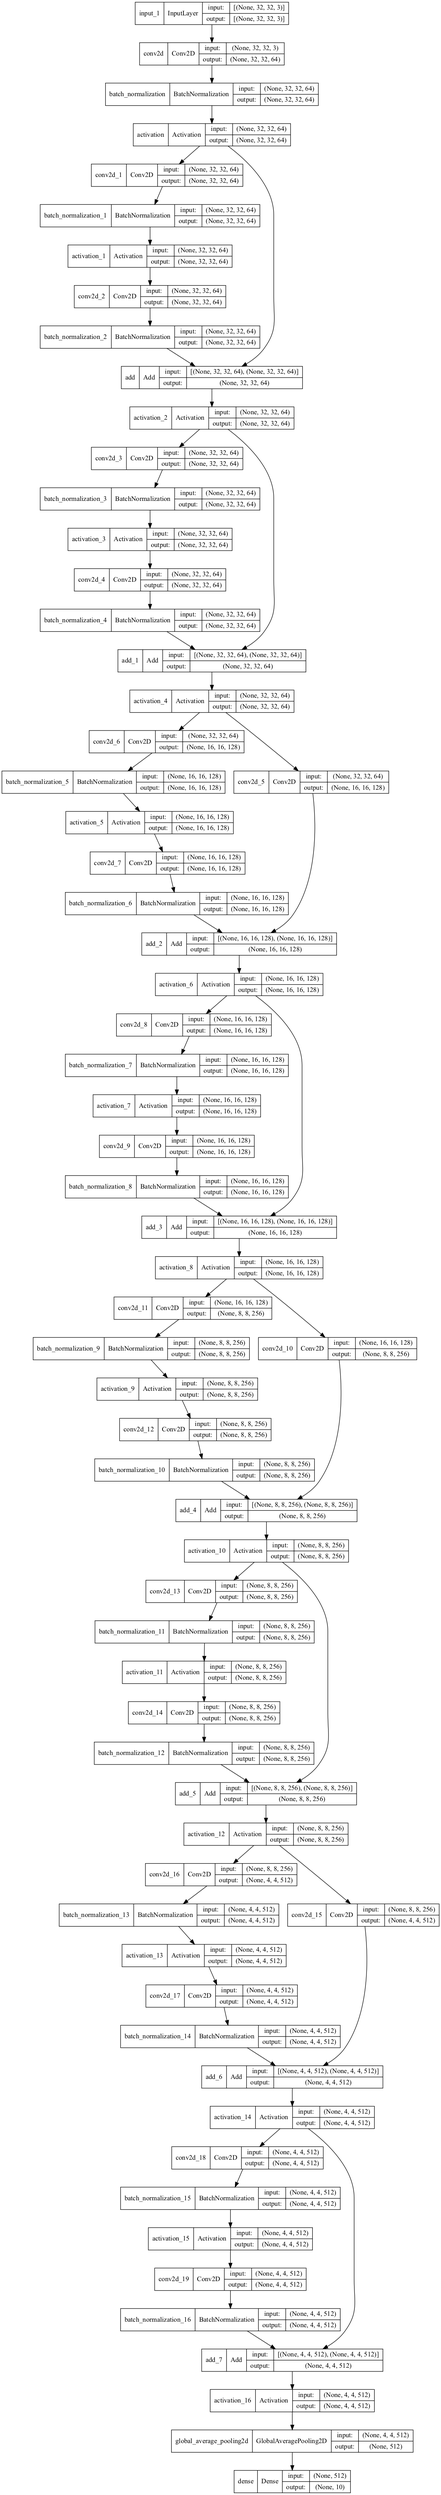
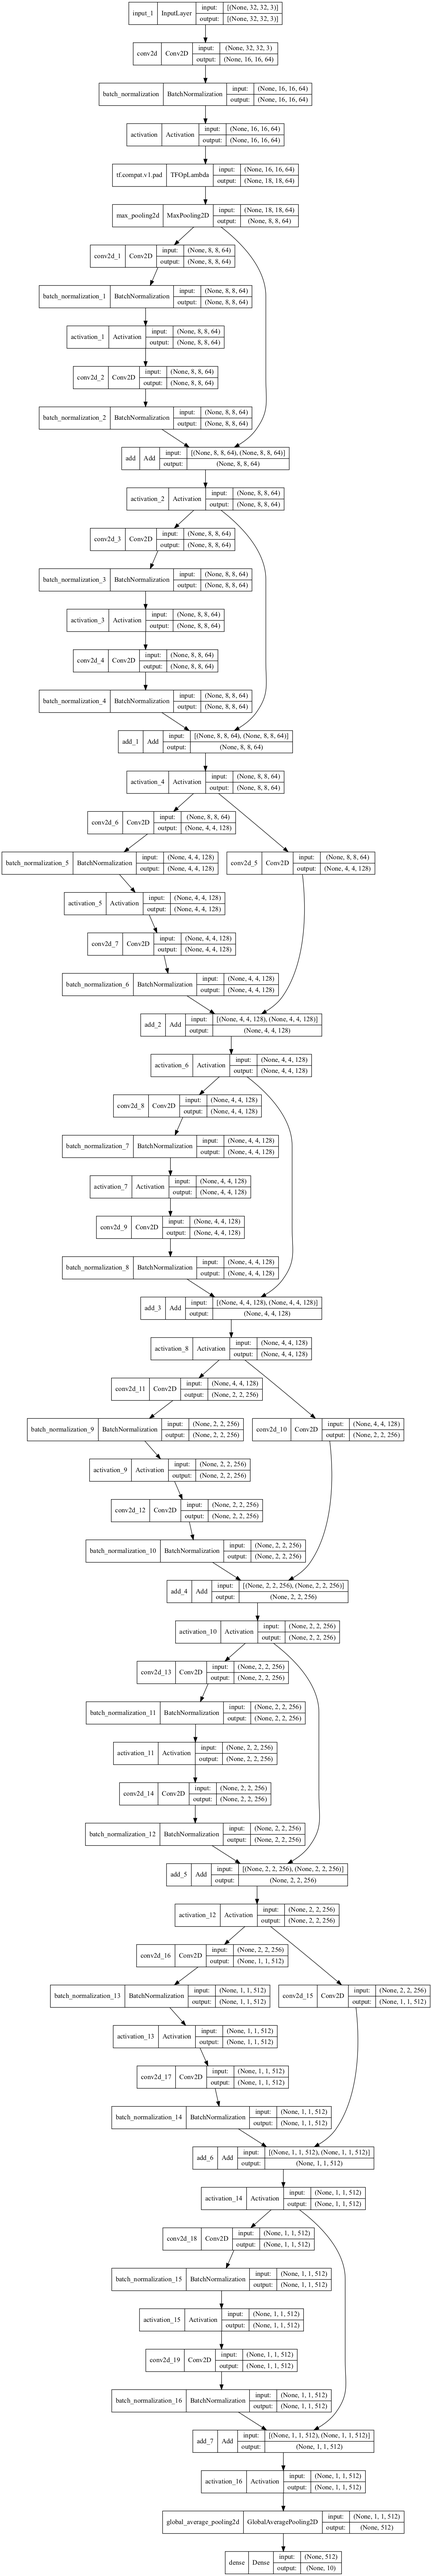
clean baseline

diff --git a/ToyNet/pure_model.py b/ToyNet/pure_model.py
@@ -3,6 +3,7 @@ from tensorflow.keras.layers import (
     Conv2D, MaxPooling2D, BatchNormalization, Dropout,
     Activation, Add, GlobalAveragePooling2D, Dense, Input
 )
+from tensorflow.python.keras.layers.convolutional import ZeroPadding2D
 
 def BasicBlock(x, filters, stride=1, conv_sc=False):
     '''
@@ -14,20 +15,17 @@ def BasicBlock(x, filters, stride=1, conv_sc=False):
         shortcut = MaxPooling2D(1, strides=stride)(x) if stride > 1 else x
 
     x = Conv2D(filters, 3, strides=stride, padding='same')(x)
-    x = BatchNormalization()(x)
+    x = BatchNormalization(epsilon=1.001e-5)(x)
     x = Activation('relu')(x)
 
     # ReLU after this unit
     x = Conv2D(filters, 3, strides=1, padding='same')(x)
-    x = BatchNormalization()(x)
+    x = BatchNormalization(epsilon=1.001e-5)(x)
 
     x = Add()([shortcut, x])
     x = Activation('relu')(x)
     return x
 
-def BottleneckBlock(x, filters, stride=1, conv_sc=False):
-
-    return x
 
 def ResStack(block_fn, x, filters, block_num, first_conv):
 
@@ -39,13 +37,17 @@ def ResStack(block_fn, x, filters, block_num, first_conv):
         x = block_fn(x, filters)
     return x
 
+
 def ResNet(block_fn, block_nums, input_shape, classes):
 
     inputs = Input(shape=input_shape)
 
-    x = Conv2D(64, 3, strides=1, padding='same')(inputs)
-    x = BatchNormalization()(x)
+    x = Conv2D(64, 7, strides=2, padding='same', use_bias=True)(inputs)
+    x = BatchNormalization(epsilon=1.001e-5)(x)
     x = Activation('relu')(x)
+
+    x = ZeroPadding2D(((1, 1), (1, 1)))(x)
+    x = MaxPooling2D(3, strides=2)(x)
 
     x = ResStack(block_fn, x, 64, block_nums[0], False)
     x = ResStack(block_fn, x, 128, block_nums[1], True)
@@ -59,3 +61,6 @@ def ResNet(block_fn, block_nums, input_shape, classes):
 
 def PureResNet18(input_shape, classes):
     return ResNet(BasicBlock, [2, 2, 2, 2], input_shape, classes)
+
+def PureResNet34(input_shape, classes):
+    return ResNet(BasicBlock, [3, 4, 6, 3], input_shape, classes)

diff --git a/train.py b/train.py
@@ -88,6 +88,7 @@ if __name__ == '__main__':
     # load categorical cifar10 dataset
     (x_train, y_train), (x_test, y_test) = load_processed_cifar10()
 
+    # Test baseline
     model = PureResNet18((32, 32, 3), 10)
 
     model.compile(loss='categorical_crossentropy',

diff --git a/cosine_annealing_scheduler.py b/cosine_annealing_scheduler.py
@@ -6,6 +6,7 @@ from keras import backend as K
 class CosineAnnealingScheduler(Callback):
     """
     Cosine annealing scheduler.
+    See https://arxiv.org/abs/1608.03983
     """
 
     def __init__(self, T_max, eta_max, eta_min=0, verbose=0):

diff --git a/ToyNet/model.py b/ToyNet/model.py
@@ -3,7 +3,6 @@ from tensorflow.keras.layers import (
     Conv2D, MaxPooling2D, BatchNormalization, Dropout,
     Activation, Add, GlobalAveragePooling2D, Dense, Input
 )
-from keras.applications.resnet import ResNet50
 
 eps = 1e-3
 
